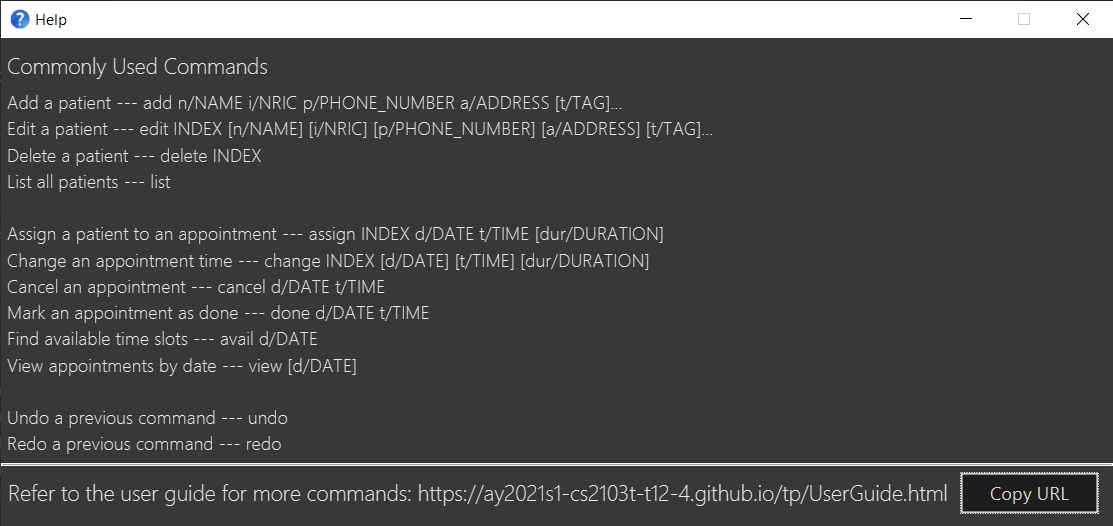
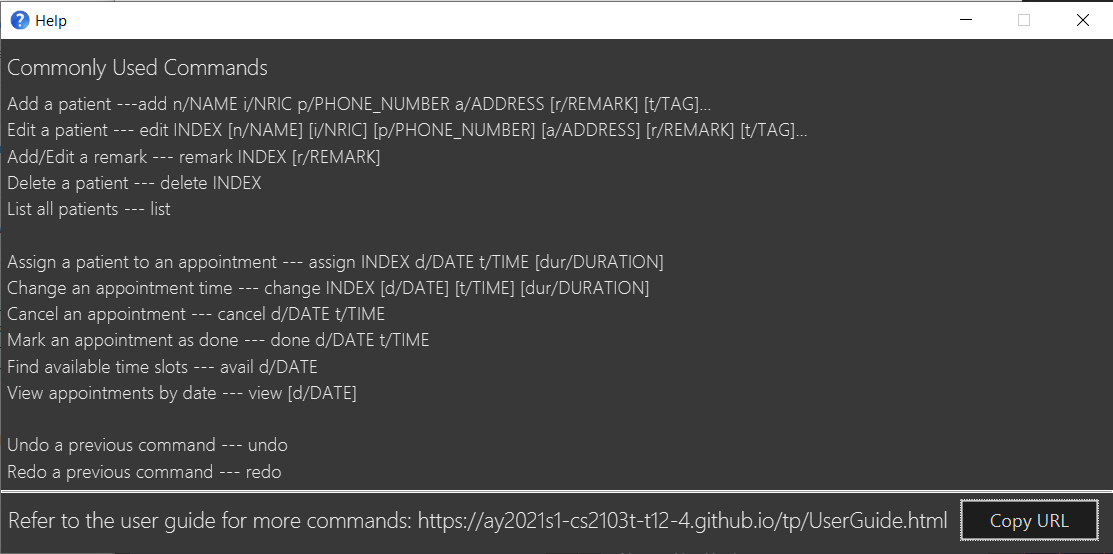
Update help message

diff --git a/src/main/java/seedu/address/ui/HelpWindow.java b/src/main/java/seedu/address/ui/HelpWindow.java
@@ -18,8 +18,9 @@ public class HelpWindow extends UiPart<Stage> {
     public static final String USERGUIDE_URL = "https://ay2021s1-cs2103t-t12-4.github.io/tp/UserGuide.html";
 
     public static final String COMMON_COMMANDS = "Add a patient ---"
-            + "add n/NAME i/NRIC p/PHONE_NUMBER a/ADDRESS [t/TAG]…\n"
-            + "Edit a patient --- edit INDEX [n/NAME] [i/NRIC] [p/PHONE_NUMBER] [a/ADDRESS] [t/TAG]…\n"
+            + "add n/NAME i/NRIC p/PHONE_NUMBER a/ADDRESS [r/REMARK] [t/TAG]…\n"
+            + "Edit a patient --- edit INDEX [n/NAME] [i/NRIC] [p/PHONE_NUMBER] [a/ADDRESS] [r/REMARK] [t/TAG]…\n"
+            + "Add/Edit a remark --- remark INDEX [r/REMARK]\n"
             + "Delete a patient --- delete INDEX\n"
             + "List all patients --- list\n\n"
             + "Assign a patient to an appointment --- assign INDEX d/DATE t/TIME [dur/DURATION]\n"
